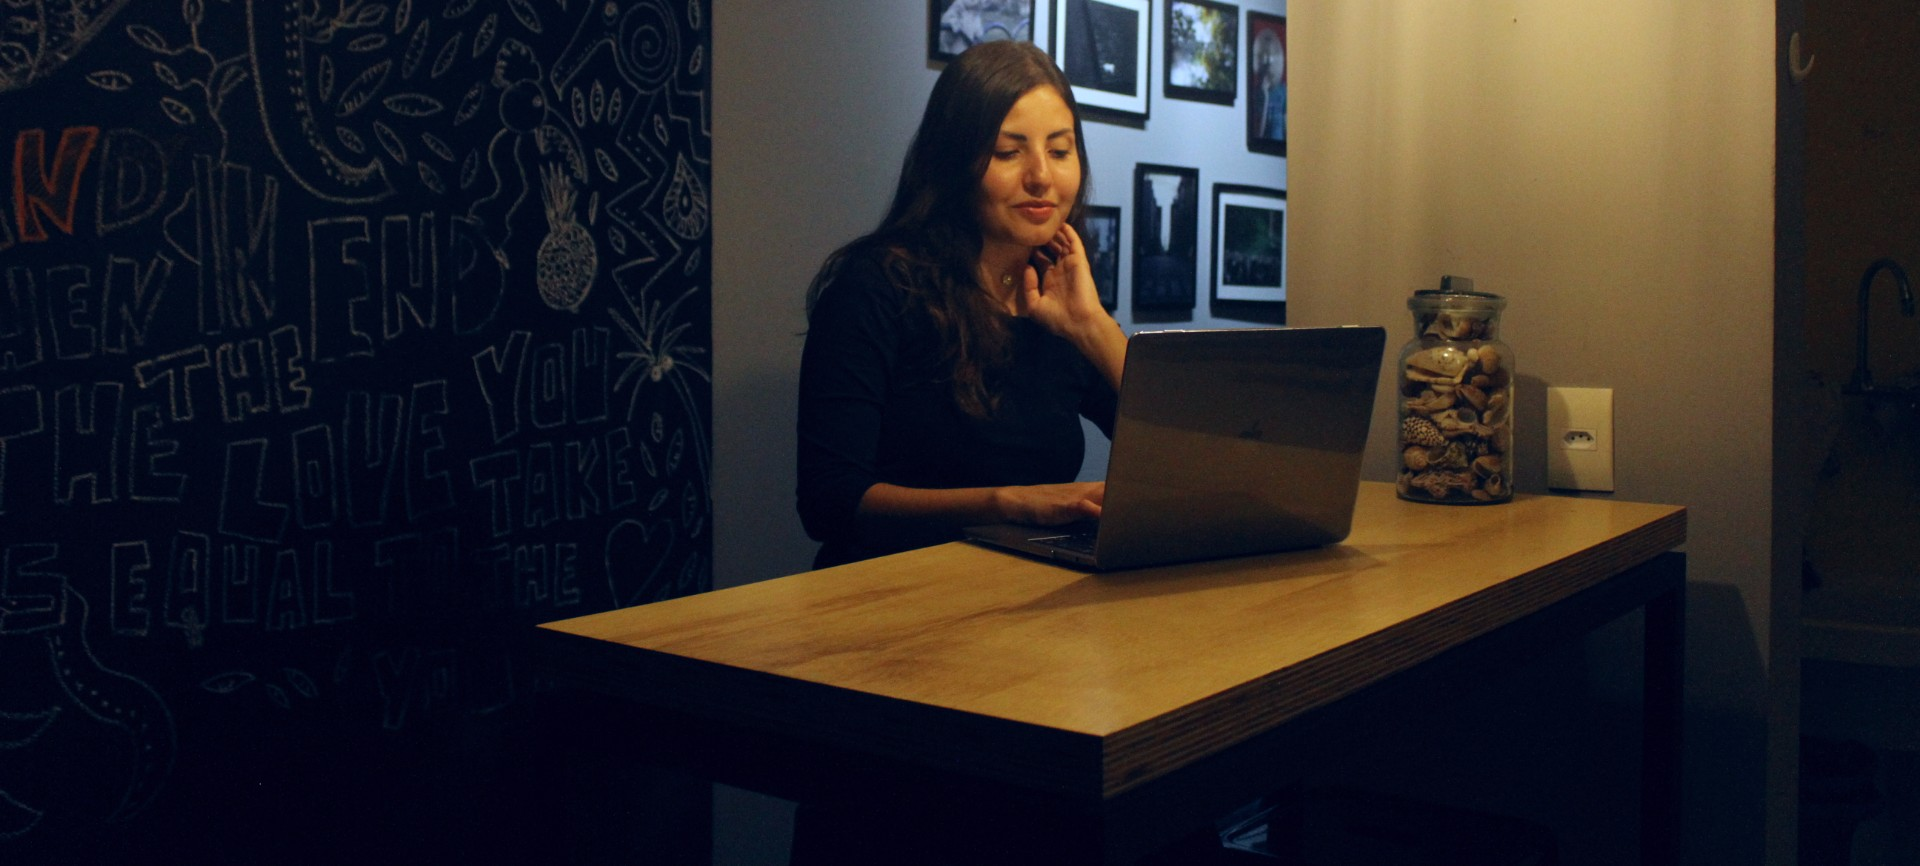
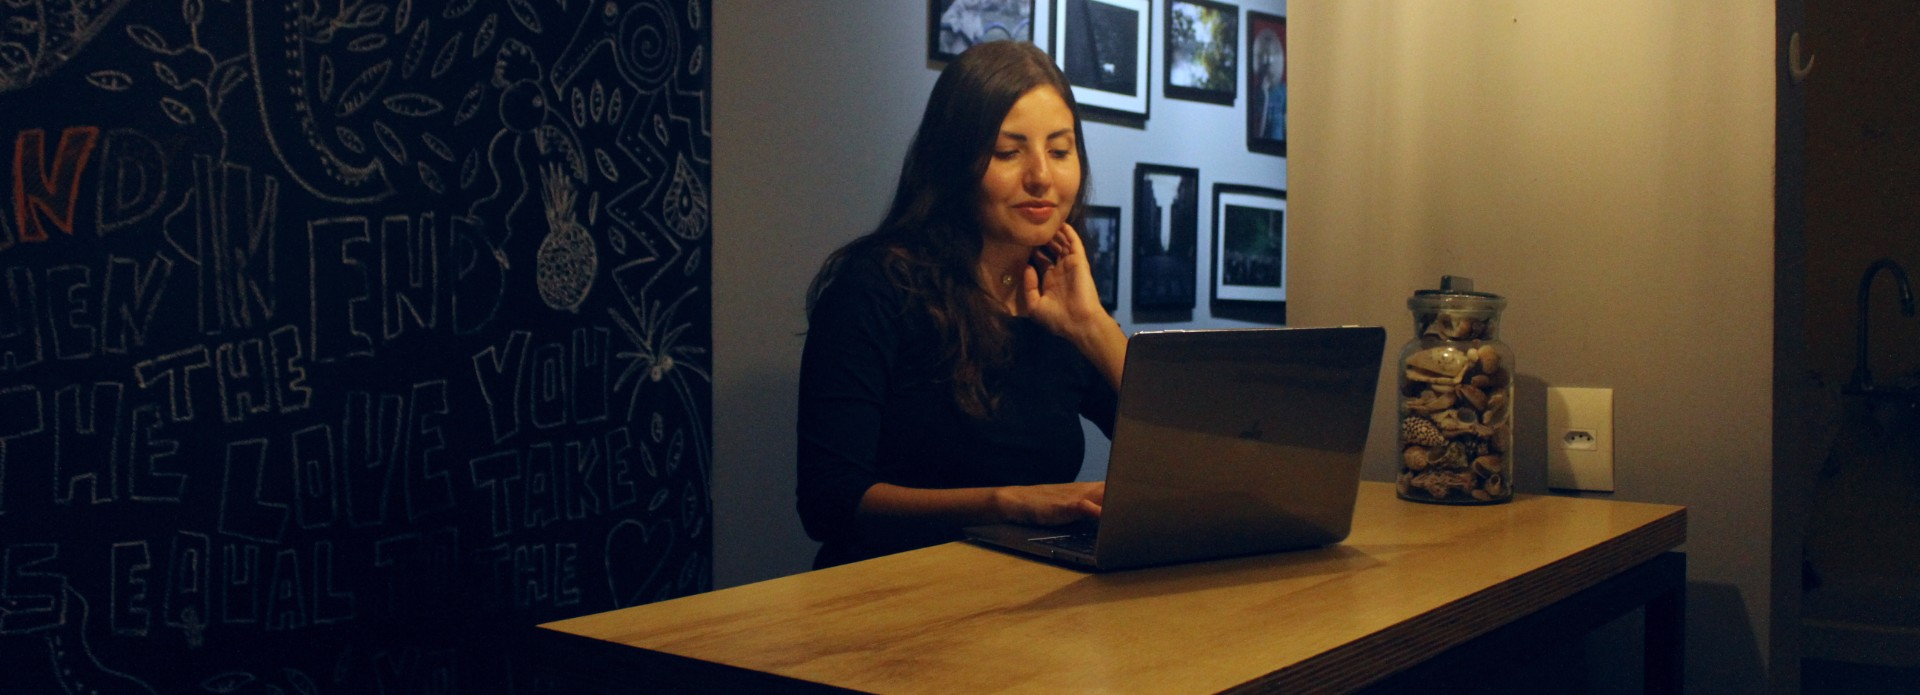
Fix images

diff --git a/site/layouts/_default/list.html b/site/layouts/_default/list.html
@@ -1,6 +1,6 @@
 {{ define "main" }}
 
-{{ partial "jumbotron" (dict "imageUrl" "/img/blog-index.jpg" "title" "Últimos posts") }}
+{{ partial "jumbotron" (dict "imageUrl" "/img/img_29412.jpg" "title" "Últimos posts") }}
 
 <div class="mw7 center">
   <ul class="flex-ns flex-wrap mhn1-ns pa3">

diff --git a/site/content/atendimento/_index.md b/site/content/atendimento/_index.md
@@ -37,6 +37,6 @@ main:
   description: >
     Para marcar seu primeiro atendimento online você pode me enviar uma mensagem
     no whatsapp ou marcar diretamente pela plataforma do Zenklub. Links estão no
-    cabeçario ou rodapé do site.
+    cabeçario e rodapé do site.
 ---
 
